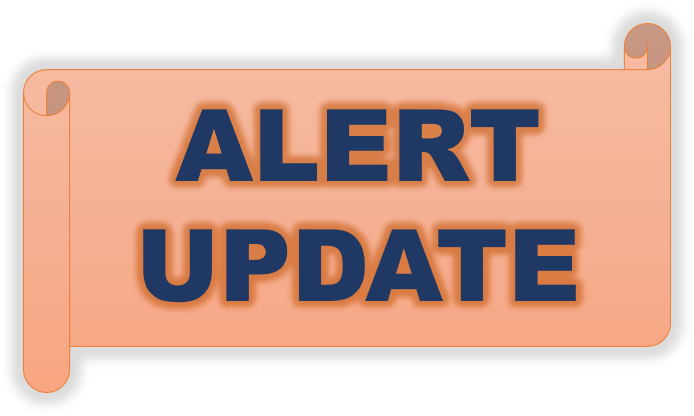
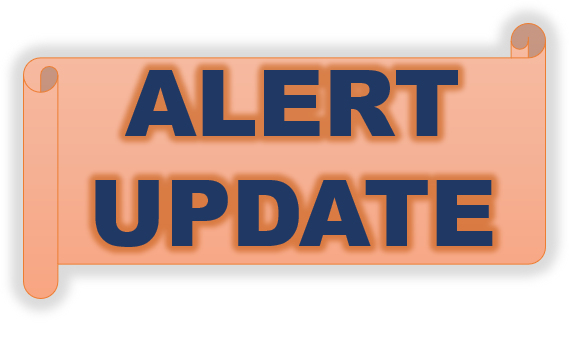
fix image links

diff --git a/snews_cs/snews_bot.py b/snews_cs/snews_bot.py
@@ -32,8 +32,9 @@ def get_image(is_test, alert_data, topic):
 
     header = f"{test} *SUPERNOVA ALERT* {update}".center(100, '=')+topic_str+f"{tag}" + \
              f"False Alarm Probability={falseprob}\nissued from {server}"
-    giflink = "https://raw.githubusercontent.com/SNEWS2/hop-SNalert-app/snews2_dev/hop_comms/auxiliary/snalert.gif"
-    updatelink = "" #"https://www.ris.world/wp-content/uploads/2018/09/update.jpg"
+    giflink = "https://raw.githubusercontent.com/SNEWS2/SNEWS_Coincidence_System/main/snews_cs/auxiliary/snalert.gif"
+    updatelink = "https://raw.githubusercontent.com/SNEWS2/SNEWS_Coincidence_System/main/snews_cs/auxiliary/update_image.png"
+    #"https://www.ris.world/wp-content/uploads/2018/09/update.jpg"
     sendlink = updatelink if update else giflink
 
     im = \
